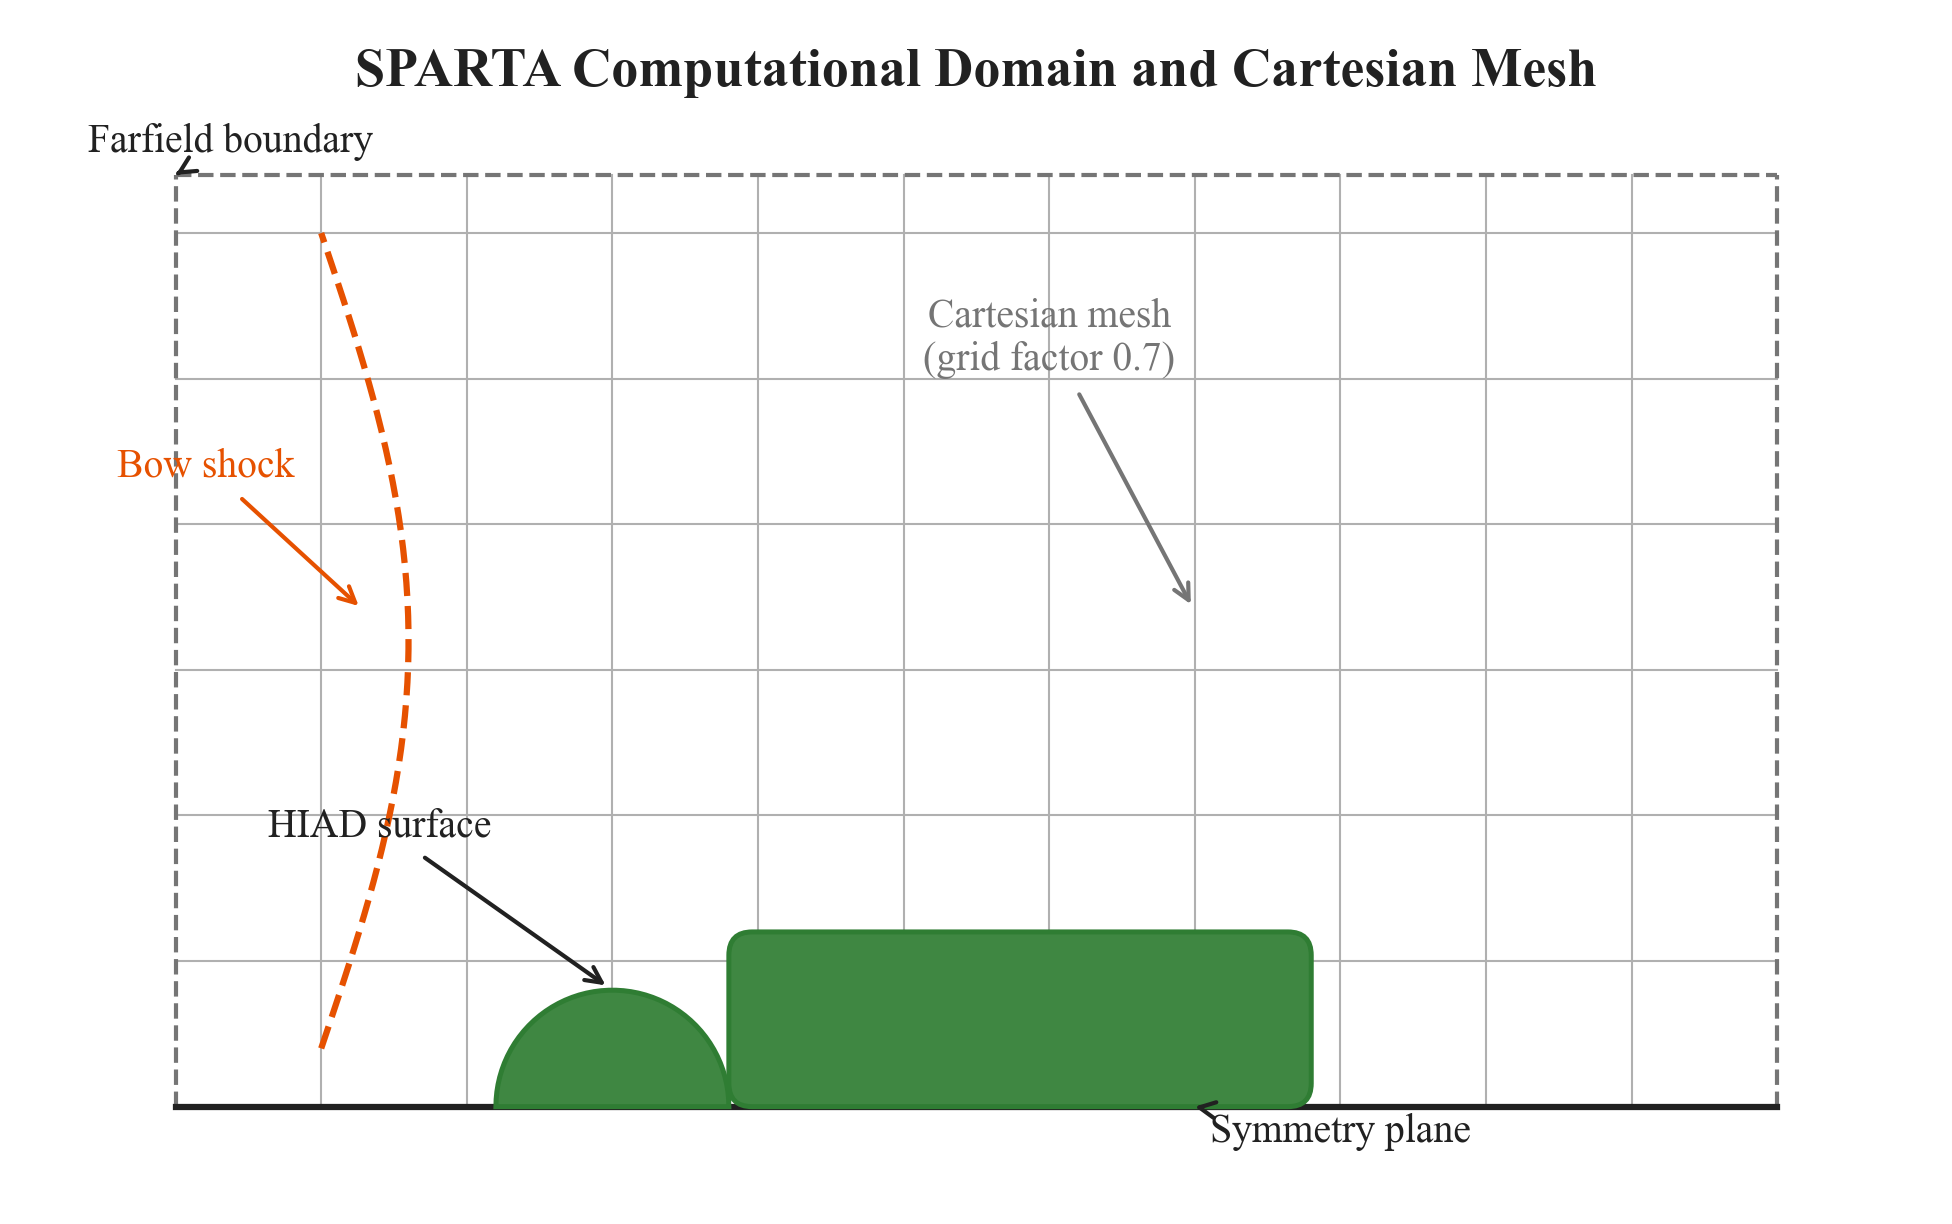
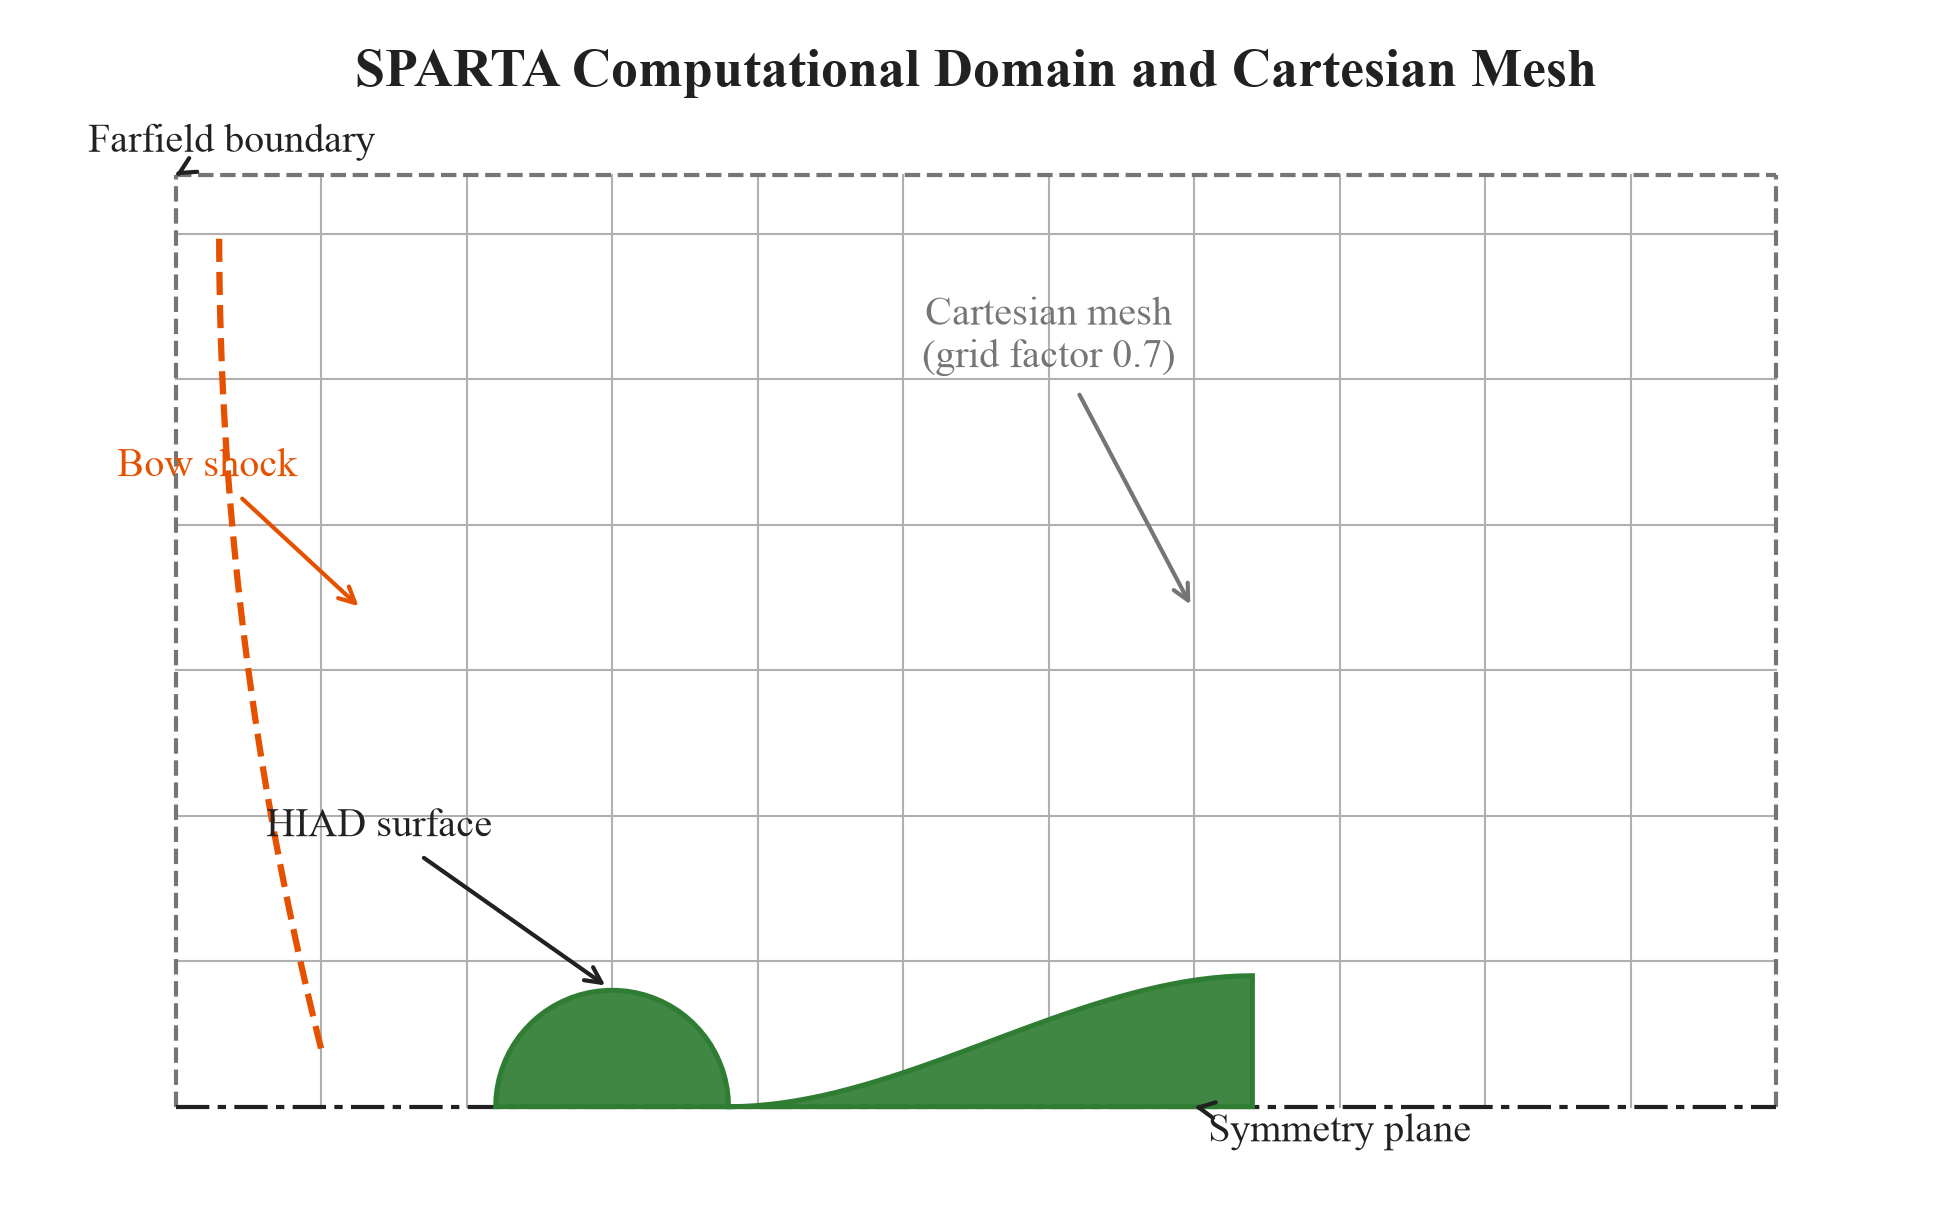
fix(thesis): Figure III.6 domain_mesh — bow shock convex upstream, smooth HIAD cross-section, symmetry plane as centerline
Three schematic defects in build_domain_mesh (make_methodology_figures.py):
- Bow shock bulged downstream (toward vehicle); now convex upstream,
  closest to the nose at the centreline.
- HIAD was semicircle + rectangle; now a smooth body-of-revolution
  cross-section (rounded nose blending into a toroidal body).
- Symmetry plane was a thick solid line reading as a wall; now a
  centreline (dash-dot) reading as an axis of symmetry.

Producer print-fit verification passed (8.05 pt >= 8.0 floor, no overlaps).
pdflatex VERDICT CLEAN; audit 75/75.

diff --git a/Lost+Found/ProgressReport/CurrentThesisFinalReport/figures/make_methodology_figures.py b/Lost+Found/ProgressReport/CurrentThesisFinalReport/figures/make_methodology_figures.py
@@ -225,8 +225,9 @@ def build_domain_mesh() -> object:
     ax.plot([6.0, 6.0], [0.3, 3.5], linestyle="--", color=HEADER_GRAY,
             linewidth=1.0, zorder=1)
 
-    # Symmetry plane
-    ax.plot([0.5, 6.0], [0.3, 0.3], color=INK, linewidth=1.5, zorder=1)
+    # Symmetry plane (centerline style: alternating long and short dashes)
+    ax.plot([0.5, 6.0], [0.3, 0.3], color=INK, linewidth=1.0,
+            linestyle=(0, (8, 2, 2, 2)), zorder=1)
 
     # Cartesian mesh (coarse grid)
     for x in [1.0, 1.5, 2.0, 2.5, 3.0, 3.5, 4.0, 4.5, 5.0, 5.5]:
@@ -234,31 +235,53 @@ def build_domain_mesh() -> object:
     for y in [0.8, 1.3, 1.8, 2.3, 2.8, 3.3]:
         ax.plot([0.5, 6.0], [y, y], color="#B0B0B0", linewidth=0.5, zorder=0)
 
-    # HIAD vehicle: nose (semicircle) + toroidal body
+    # HIAD vehicle: smooth body-of-revolution cross-section (nose + toroidal body)
     import numpy as np
-    theta = np.linspace(0, np.pi, 50)
-    nose_r = 0.4
+    from matplotlib.path import Path
+
+    # Silhouette: tangent-ogive nose blending into a toroidal (inflatable) body.
+    # Built as one closed path so the surface reads as a single aeroshell.
     nose_cx, nose_cy = 2.0, 0.3
-    ax.fill(nose_cx + nose_r * np.cos(theta),
-            nose_cy + nose_r * np.sin(theta),
-            color=SOLVER_FILL, edgecolor=SOLVER_EDGE, linewidth=1.2, zorder=2)
+    nose_r = 0.4
 
-    # Toroidal body (simplified as a rectangle with rounded top)
-    body_x0, body_y0 = 2.4, 0.3
-    body_w, body_h = 2.0, 0.6
-    ax.add_patch(FancyBboxPatch(
-        (body_x0, body_y0), body_w, body_h,
-        boxstyle="round,pad=0.0,rounding_size=0.08",
-        linewidth=1.2, edgecolor=SOLVER_EDGE, facecolor=SOLVER_FILL, zorder=2,
-    ))
+    # Nose: upper half of a circle (sitting on the symmetry plane)
+    theta = np.linspace(0, np.pi, 40)
+    nose_x = nose_cx + nose_r * np.cos(theta)      # 2.4 -> 1.6
+    nose_y = nose_cy + nose_r * np.sin(theta)      # 0.3 -> 0.7
 
-    # Bow shock (dashed curve)
-    shock_x = np.linspace(1.0, 1.0, 2)
-    shock_y = np.linspace(0.5, 3.3, 2)
-    # Draw a curved bow shock using a parabola
-    t = np.linspace(0, 1, 50)
-    shock_x = 1.0 + 0.3 * np.sin(np.pi * t)
+    # Body: torus-like cross-section extending aft (tangent to the nose top)
+    body_x0 = nose_cx + nose_r                       # 2.4
+    body_top = 0.75
+    body_bot = 0.3
+    body_x1 = 4.2
+
+    # Upper contour of the body (smooth step from nose top to body top)
+    tb = np.linspace(0, 1, 40)
+    upper_x = body_x0 + (body_x1 - body_x0) * tb
+    # Smoothstep blending the nose top (0.7) into the body top (0.75)
+    blend = 3 * tb**2 - 2 * tb**3
+    upper_y = nose_y[-1] + (body_top - nose_y[-1]) * blend
+
+    # Lower contour (sits on the symmetry plane)
+    lower_x = np.linspace(body_x1, body_x0, 40)
+    lower_y = np.full_like(lower_x, body_bot)
+
+    # Assemble the closed silhouette: nose (right-to-left) + upper body + lower body (left-to-right)
+    sil_x = np.concatenate([nose_x, upper_x, lower_x])
+    sil_y = np.concatenate([nose_y, upper_y, lower_y])
+
+    verts = list(zip(sil_x, sil_y)) + [(sil_x[0], sil_y[0])]
+    codes = [Path.MOVETO] + [Path.LINETO] * (len(verts) - 2) + [Path.CLOSEPOLY]
+    path = Path(verts, codes)
+    from matplotlib.patches import PathPatch
+    ax.add_patch(PathPatch(path, facecolor=SOLVER_FILL,
+                           edgecolor=SOLVER_EDGE, linewidth=1.2, zorder=2))
+
+    # Bow shock: convex upstream (left), detached ahead of the nose
+    t = np.linspace(0, 1, 60)
     shock_y = 0.5 + 2.8 * t
+    # Hyperbola-like curve: closest at the centreline (bottom), curving upstream
+    shock_x = 1.0 - 0.35 * (1.0 - (1.0 - t)**2)     # 1.0 (bottom) -> 0.65 (top)
     ax.plot(shock_x, shock_y, linestyle="--", color=ORANGE,
             linewidth=1.5, zorder=1)
 
